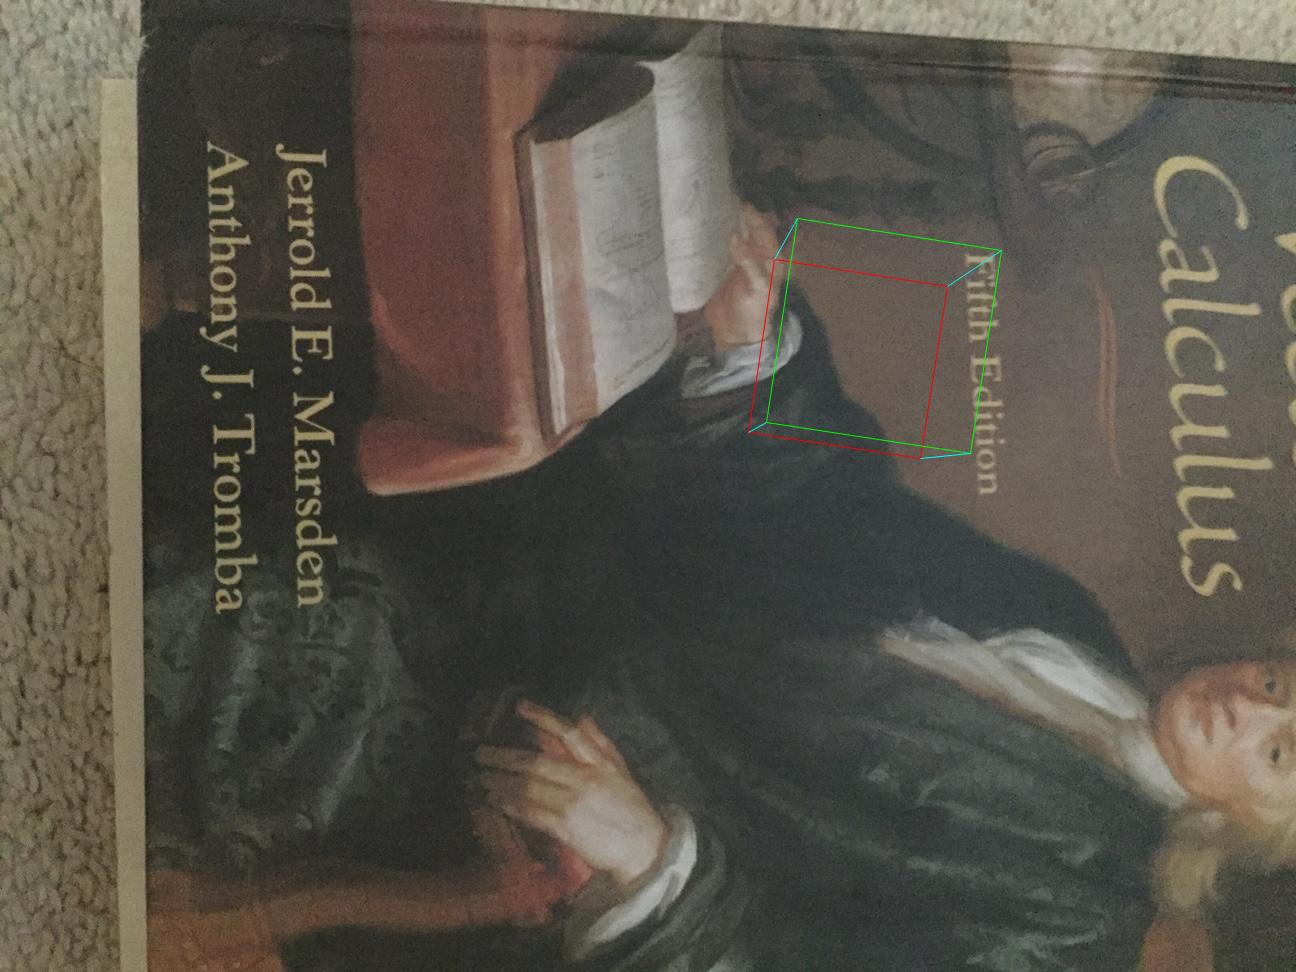
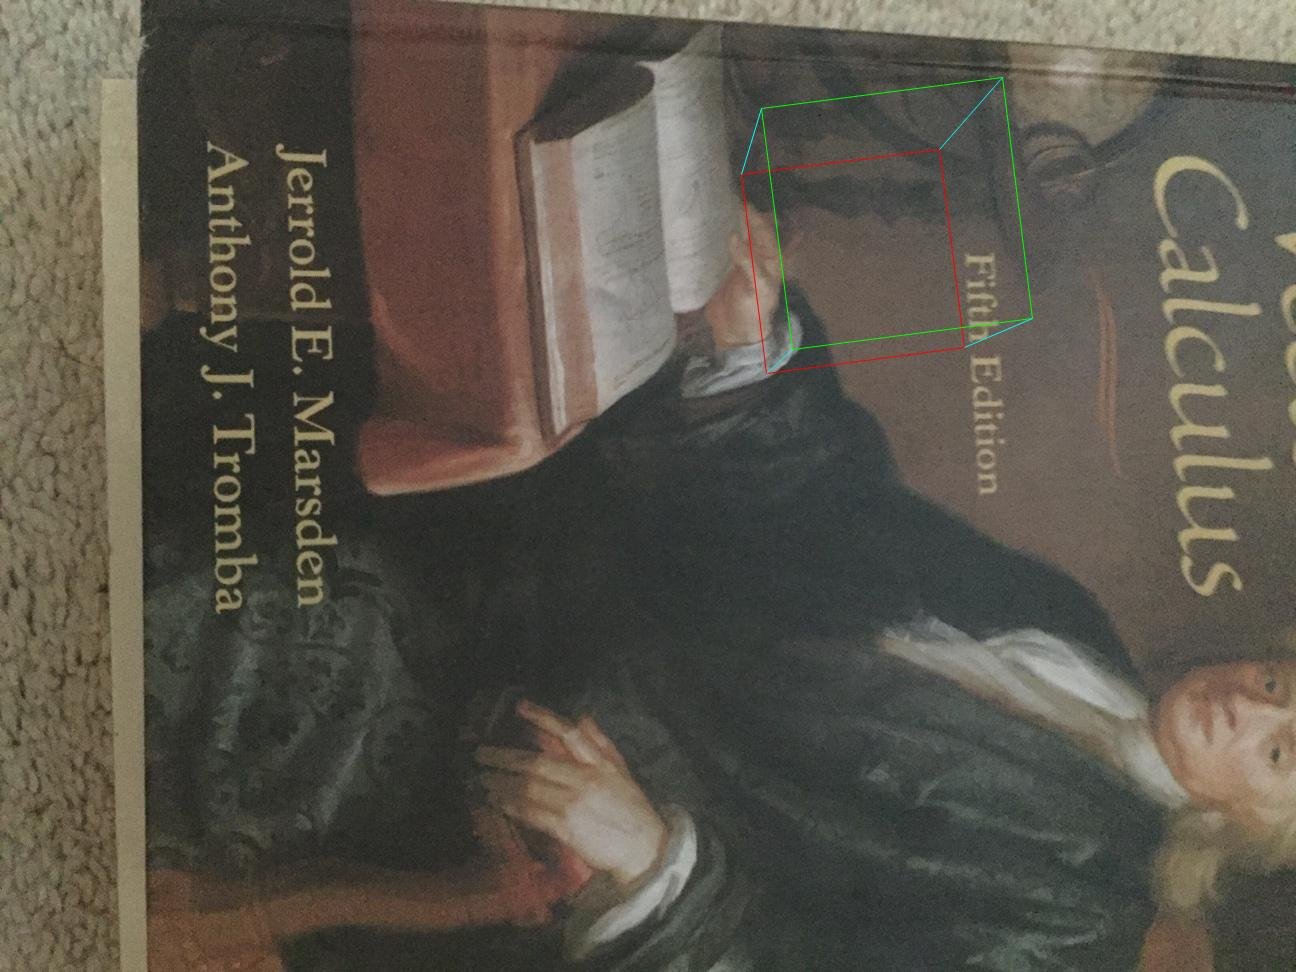
Done

diff --git a/main.m b/main.m
@@ -1,12 +1,10 @@
-clear all;
+clearvars;
 addpath('vgg_scripts');
 addpath('Images-2');
 alpha=0.04;
 sigma=3;
 threshold=0.2;
 suppressionSize=3;
-% fileFormat='P1070%d.jpg';
-% img_start=190;
 fileFormat='Photo %d.jpg';
 img_start=1;
 file=sprintf(fileFormat,img_start);
@@ -34,9 +32,9 @@ for i=1:16
     vals=svd(H);
     gamma =(median(vals));
     Hp=H/gamma;
-%         if i==9
-%               vgg_gui_H(curr,next,Hp);
-%         end
+    %         if i==9
+    %               vgg_gui_H(curr,next,Hp);
+    %         end
     [Ra,Rb,Na,Nb,Ta,Tb] = decompose_Homography(Hp);
     x= [currPts(1,inlierIdx);currPts(2,inlierIdx)];
     xp= [nextPts(1,inlierIdx);nextPts(2,inlierIdx)];
@@ -52,33 +50,38 @@ for i=1:16
     db=sum(sqrt(calcDist(Hb,x,xp)));
     if da<=db
         R=Ra;
-        t=Ta;
+        TEstimated=Ta;
         n=Na;
     else
         R=Rb;
-        t=Tb;
+        TEstimated=Tb;
         n=Nb;
     end
-    d=1/norm(t);
-    %     t=-R*t;
-    %     n=Nb;
-    near=550;
-    far=near+100;
+    
     if i==1
-        
-        WP=[-50,      -50,      50,    50,    -50,      -50,      50,    50;
-            -50,      50,    -50,      50,    -50,      50,    -50,      50;
-            far,   far,   far,   far,   near,   near,   near,   near
-            1,1,1,1,1,1,1,1];
-        
+        d=600;
+        offset=100;
         RTcurr=[eye(3) zeros(3,1);
             zeros(1,3), 1];
+
         P1=K*RTcurr(1:3,:);
-        pp=P1*WP;
-        pos_triangle = [183 297 302 250 316 297];
-        pos_hexagon = [340 163 305 186 303 257 334 294 362 255 361 191];
         
+        IP=[
+            -offset, -offset, offset, offset,-offset, -offset, offset, offset;
+            -offset, offset, -offset, offset,-offset, offset, -offset, offset;
+            1, 1, 1, 1,1, 1, 1, 1]+[cols/2;rows/2;0];
         
+        Ray=K\IP;
+        WP=zeros(4,8);
+        for j=1:4
+            Rj=Ray(:,j);
+            Rj=Rj/norm(Rj);
+            s=-d/dot(Rj,n);
+            WP(:,j)=[Rj*s;1];
+        end
+        WP(:,5:8)=WP(:,1:4);
+        WP(3,5:8)=WP(3,1)+WP(1,1)*2;        
+        pp=P1*WP;        
         pp=pp(1:2,:)./pp(3,:);
         fn=sprintf('out-%d.jpg',i);
         im=currRgb;
@@ -122,8 +125,12 @@ for i=1:16
         imwrite(im,fn);
         WP=RTcurr*WP;
     end
-    RTnext=[R ,t;
+    dnext=d-TEstimated'*n;
+    t=TEstimated;
+    
+    RTnext=[R' ,-t;
         zeros(1,3), 1];
+    
     P2=K*RTnext(1:3,:);
     pp2=P2*WP;
     pp2=pp2(1:2,:)./pp2(3,:);
@@ -154,6 +161,7 @@ for i=1:16
     fn=sprintf('out-%d.jpg',i+1);
     imwrite(im,fn);
     
+    
     curr=next;
     currRgb=nextrgb;
     RTcurr=RTnext;
@@ -163,5 +171,3 @@ for i=1:16
     
 end
 fprintf("Done\n");
-
-
